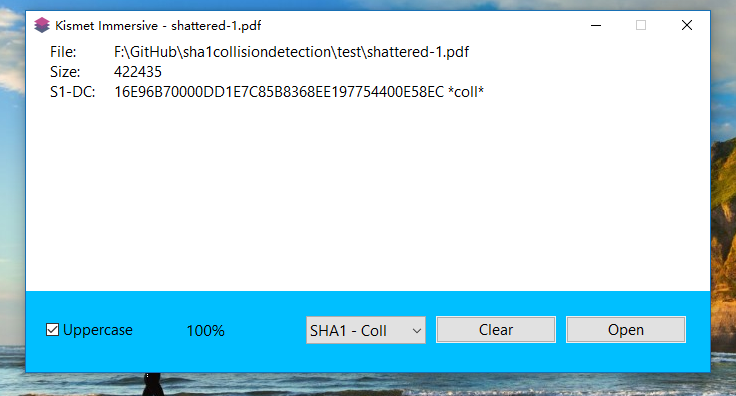
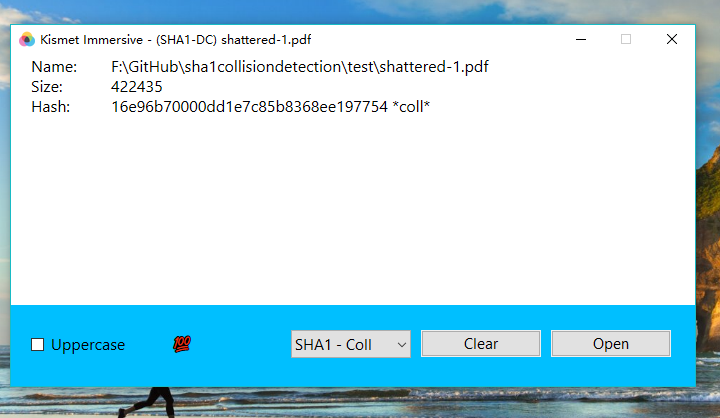
update image

Changed region(s): [[0.0, 0.0, 1.0, 1.0], [0.2139, 0.7879, 0.3056, 0.8485], [0.9472, 0.1212, 1.0, 0.1515]]

diff --git a/Kismet/NeonWindow.cpp b/Kismet/NeonWindow.cpp
@@ -221,6 +221,14 @@ HRESULT NeonWindow::OnRender() {
 					AppPageTextBrush, D2D1_DRAW_TEXT_OPTIONS_ENABLE_COLOR_FONT,
 					DWRITE_MEASURING_MODE_NATURAL);
 			}
+			else {
+				wchar_t text[] = L"\x2764Kismet";
+				pHwndRenderTarget->DrawTextW(
+					text, 7, pLabelWriteTextFormat,
+					D2D1::RectF(160.0f, areaheight + 28.0f, 250.0f, areaheight + 50.5f),
+					AppPageTextBrush, D2D1_DRAW_TEXT_OPTIONS_ENABLE_COLOR_FONT,
+					DWRITE_MEASURING_MODE_NATURAL);
+			}
 			hr = pHwndRenderTarget->EndDraw();
 		}
 		if (hr == D2DERR_RECREATE_TARGET) {
@@ -283,17 +291,16 @@ bool NeonWindow::UpdateTheme()
 
 bool NeonWindow::FilesumInvoke(std::int32_t state, std::uint32_t pg, std::wstring data)
 {
+	static std::uint32_t progress_=0;
 	switch (state) {
 	case kFilesumBroken:
 		return false;
-	case kFilesumMessage:
-		break;
-	case kFilesumCompleted:
-		hash.assign(data);
-		break;
 	case kFilesumProgress:
 		progress = pg;
-		InvalidateRect(nullptr, false);
+		if (pg != progress_) {
+			progress_ = pg;
+			InvalidateRect(nullptr);
+		}
 		break;
 	default:
 		return false;
@@ -582,6 +589,7 @@ LRESULT NeonWindow::OnContentClear(WORD wNotifyCode, WORD wID, HWND hWndCtl, BOO
 		filetext.clear();
 		sizetext.clear();
 		hash.clear();
+		showerror = false;
 		progress = 0;
 		UpdateTitle(L"");
 		InvalidateRect(nullptr, false);
@@ -602,7 +610,10 @@ LRESULT NeonWindow::Filesum(const std::wstring & file)
 	if (!HashsumAlgmCheck(ComboBox_GetCurSel(hCombo), aw)) {
 		return false;
 	}
-
+	filetext.clear();
+	hash.clear();
+	sizetext.clear();
+	//InvalidateRect(nullptr);
 	std::wstring title;
 	title.append(L"(").append(aw.name).append(L") ").append(PathFindFileNameW(file.data()));
 	UpdateTitle(title);
@@ -664,6 +675,7 @@ LRESULT NeonWindow::Filesum(const std::wstring & file)
 		if (!result) {
 			showerror = true;
 		}
+		//InvalidateRect(nullptr);
 		locked = false;
 	});
 	return S_OK;

diff --git a/ReadMe.md b/ReadMe.md
@@ -1,13 +1,21 @@
 # Kismet File Hashsum
 
 
+## None
+
+![image](./docs/images/none.png)
+
 ## MD5
 
 ![image](./docs/images/md5.png)
 
 ## SHA1 Collision Detection
+
 ![image](./docs/images/coll.png)
 
+## Progress
+
+![image](./docs/images/progress.png)
 
 ## Complete
 
